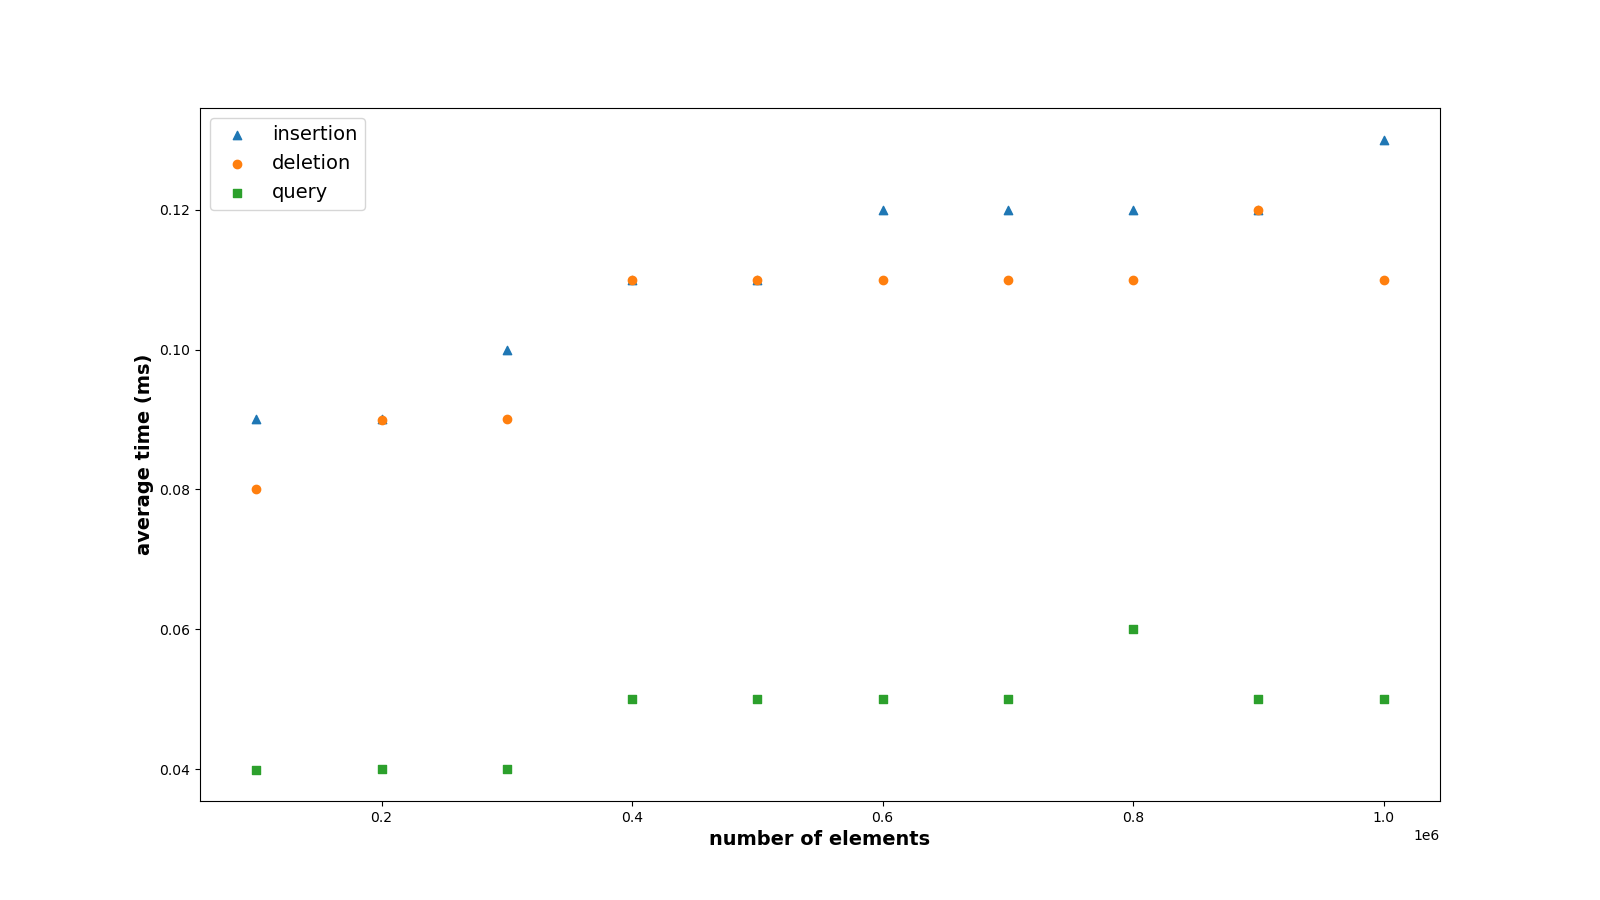
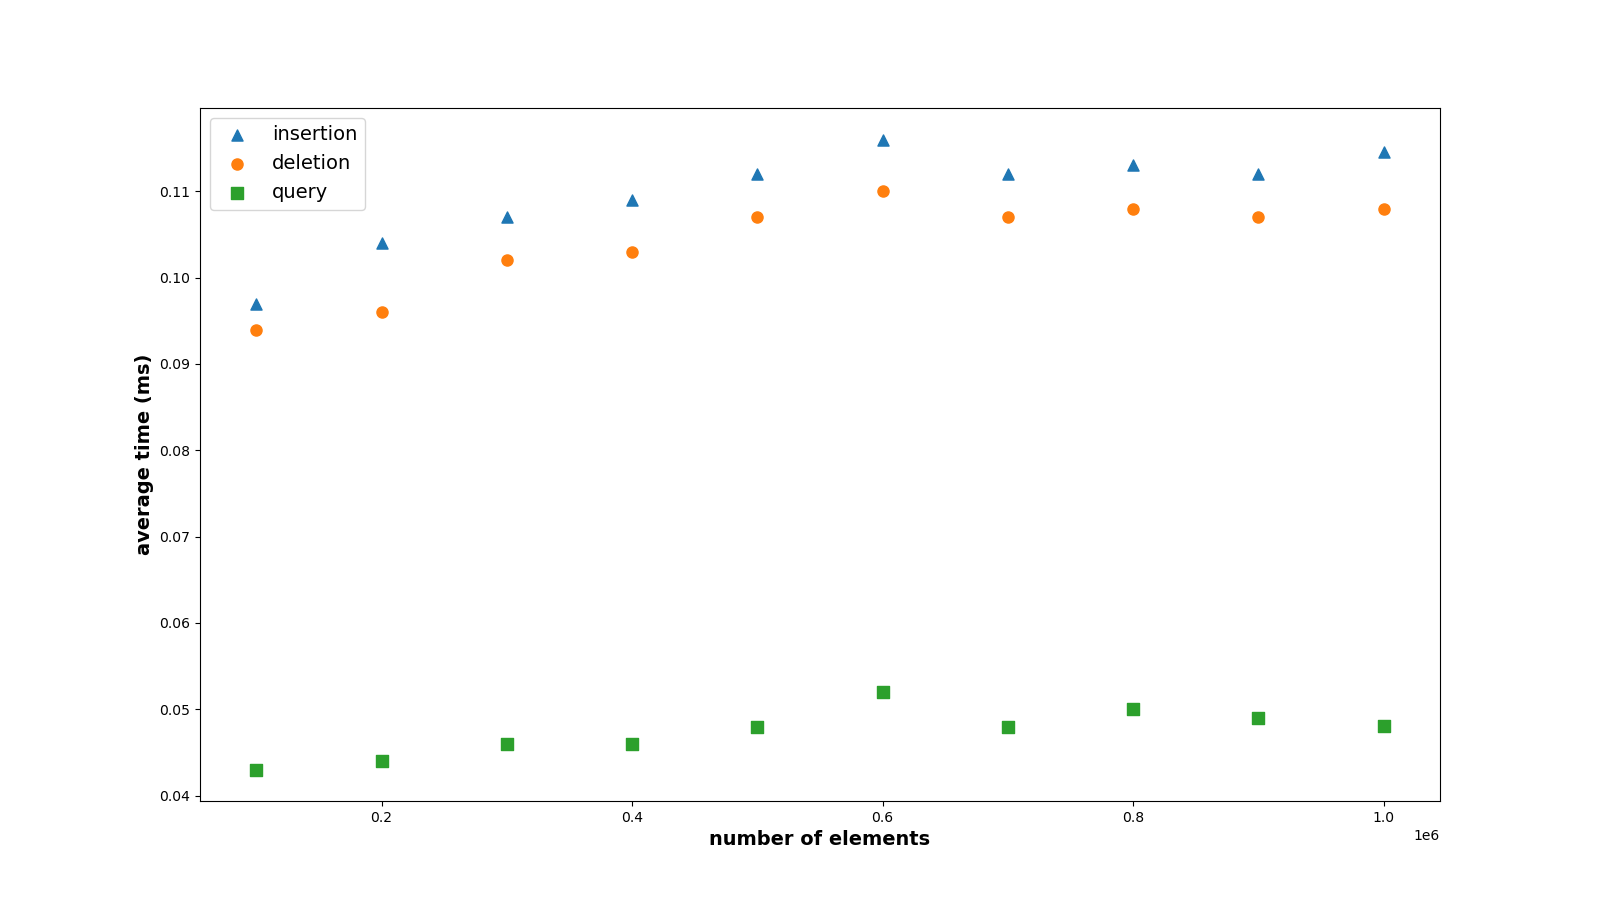
minor fix

diff --git a/benc_test.py b/benc_test.py
@@ -40,9 +40,9 @@ class MyTestCase(unittest.TestCase):
                 print("--- 1 validation operation %s ms ---" % t)
         xs = [i * 100000 for i in range(1, 11)]
         fig = mlp.figure(figsize=(16, 9))
-        mlp.scatter(xs, self.benches[0], s=6 ** 2, marker='^', label='insertion')
-        mlp.scatter(xs, self.benches[1], s=6 ** 2, marker='o', label='deletion')
-        mlp.scatter(xs, self.benches[2], s=6 ** 2, marker='s', label='query')
+        mlp.scatter(xs, self.benches[0], s=8 ** 2, marker='^', label='insertion')
+        mlp.scatter(xs, self.benches[1], s=8 ** 2, marker='o', label='deletion')
+        mlp.scatter(xs, self.benches[2], s=8 ** 2, marker='s', label='query')
         mlp.xlabel('number of elements', fontsize=14, fontweight='bold')
         mlp.ylabel('average time (ms)', fontsize=14, fontweight='bold')
         mlp.legend(fontsize=14)
